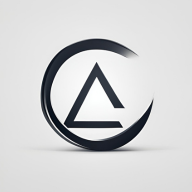
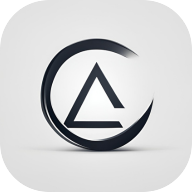
アイコン丸角化、テーマカラー変更

diff --git a/public/service-worker.js b/public/service-worker.js
@@ -1,5 +1,5 @@
 // キャッシュ名とキャッシュするファイルのリスト
-var CACHE_NAME = 'pwa-sample-caches-v5'; // バージョンを更新
+var CACHE_NAME = 'pwa-sample-caches-v6'; // バージョンを更新
 
 var urlsToCache = [
     "/checker/",                        // アプリケーションのルート

diff --git a/resources/css/app.css b/resources/css/app.css
@@ -6,5 +6,5 @@
 @tailwind utilities;
 
 html {
-  background-color: #3300cc; /* ビューポート外の背景色 */
+  background-color: #111827; /* ビューポート外の背景色 */
 }

diff --git a/resources/views/layouts/app.blade.php b/resources/views/layouts/app.blade.php
@@ -12,7 +12,7 @@
     <!-- iOSでPWAアイコンとして使う画像 -->
     <link rel="apple-touch-icon" href="/checker/images/app-icon-180.png"> <!-- 180x180 アイコン -->
     <!-- テーマカラーの指定 -->
-    <meta name="theme-color" content="#3300cc"> <!-- テーマカラー -->
+    <meta name="theme-color" content="#111827"> <!-- テーマカラー -->
     <!-- スタートアップ時の画面色 -->
     <meta name="apple-mobile-web-app-title" content="AC-Sync">
 
